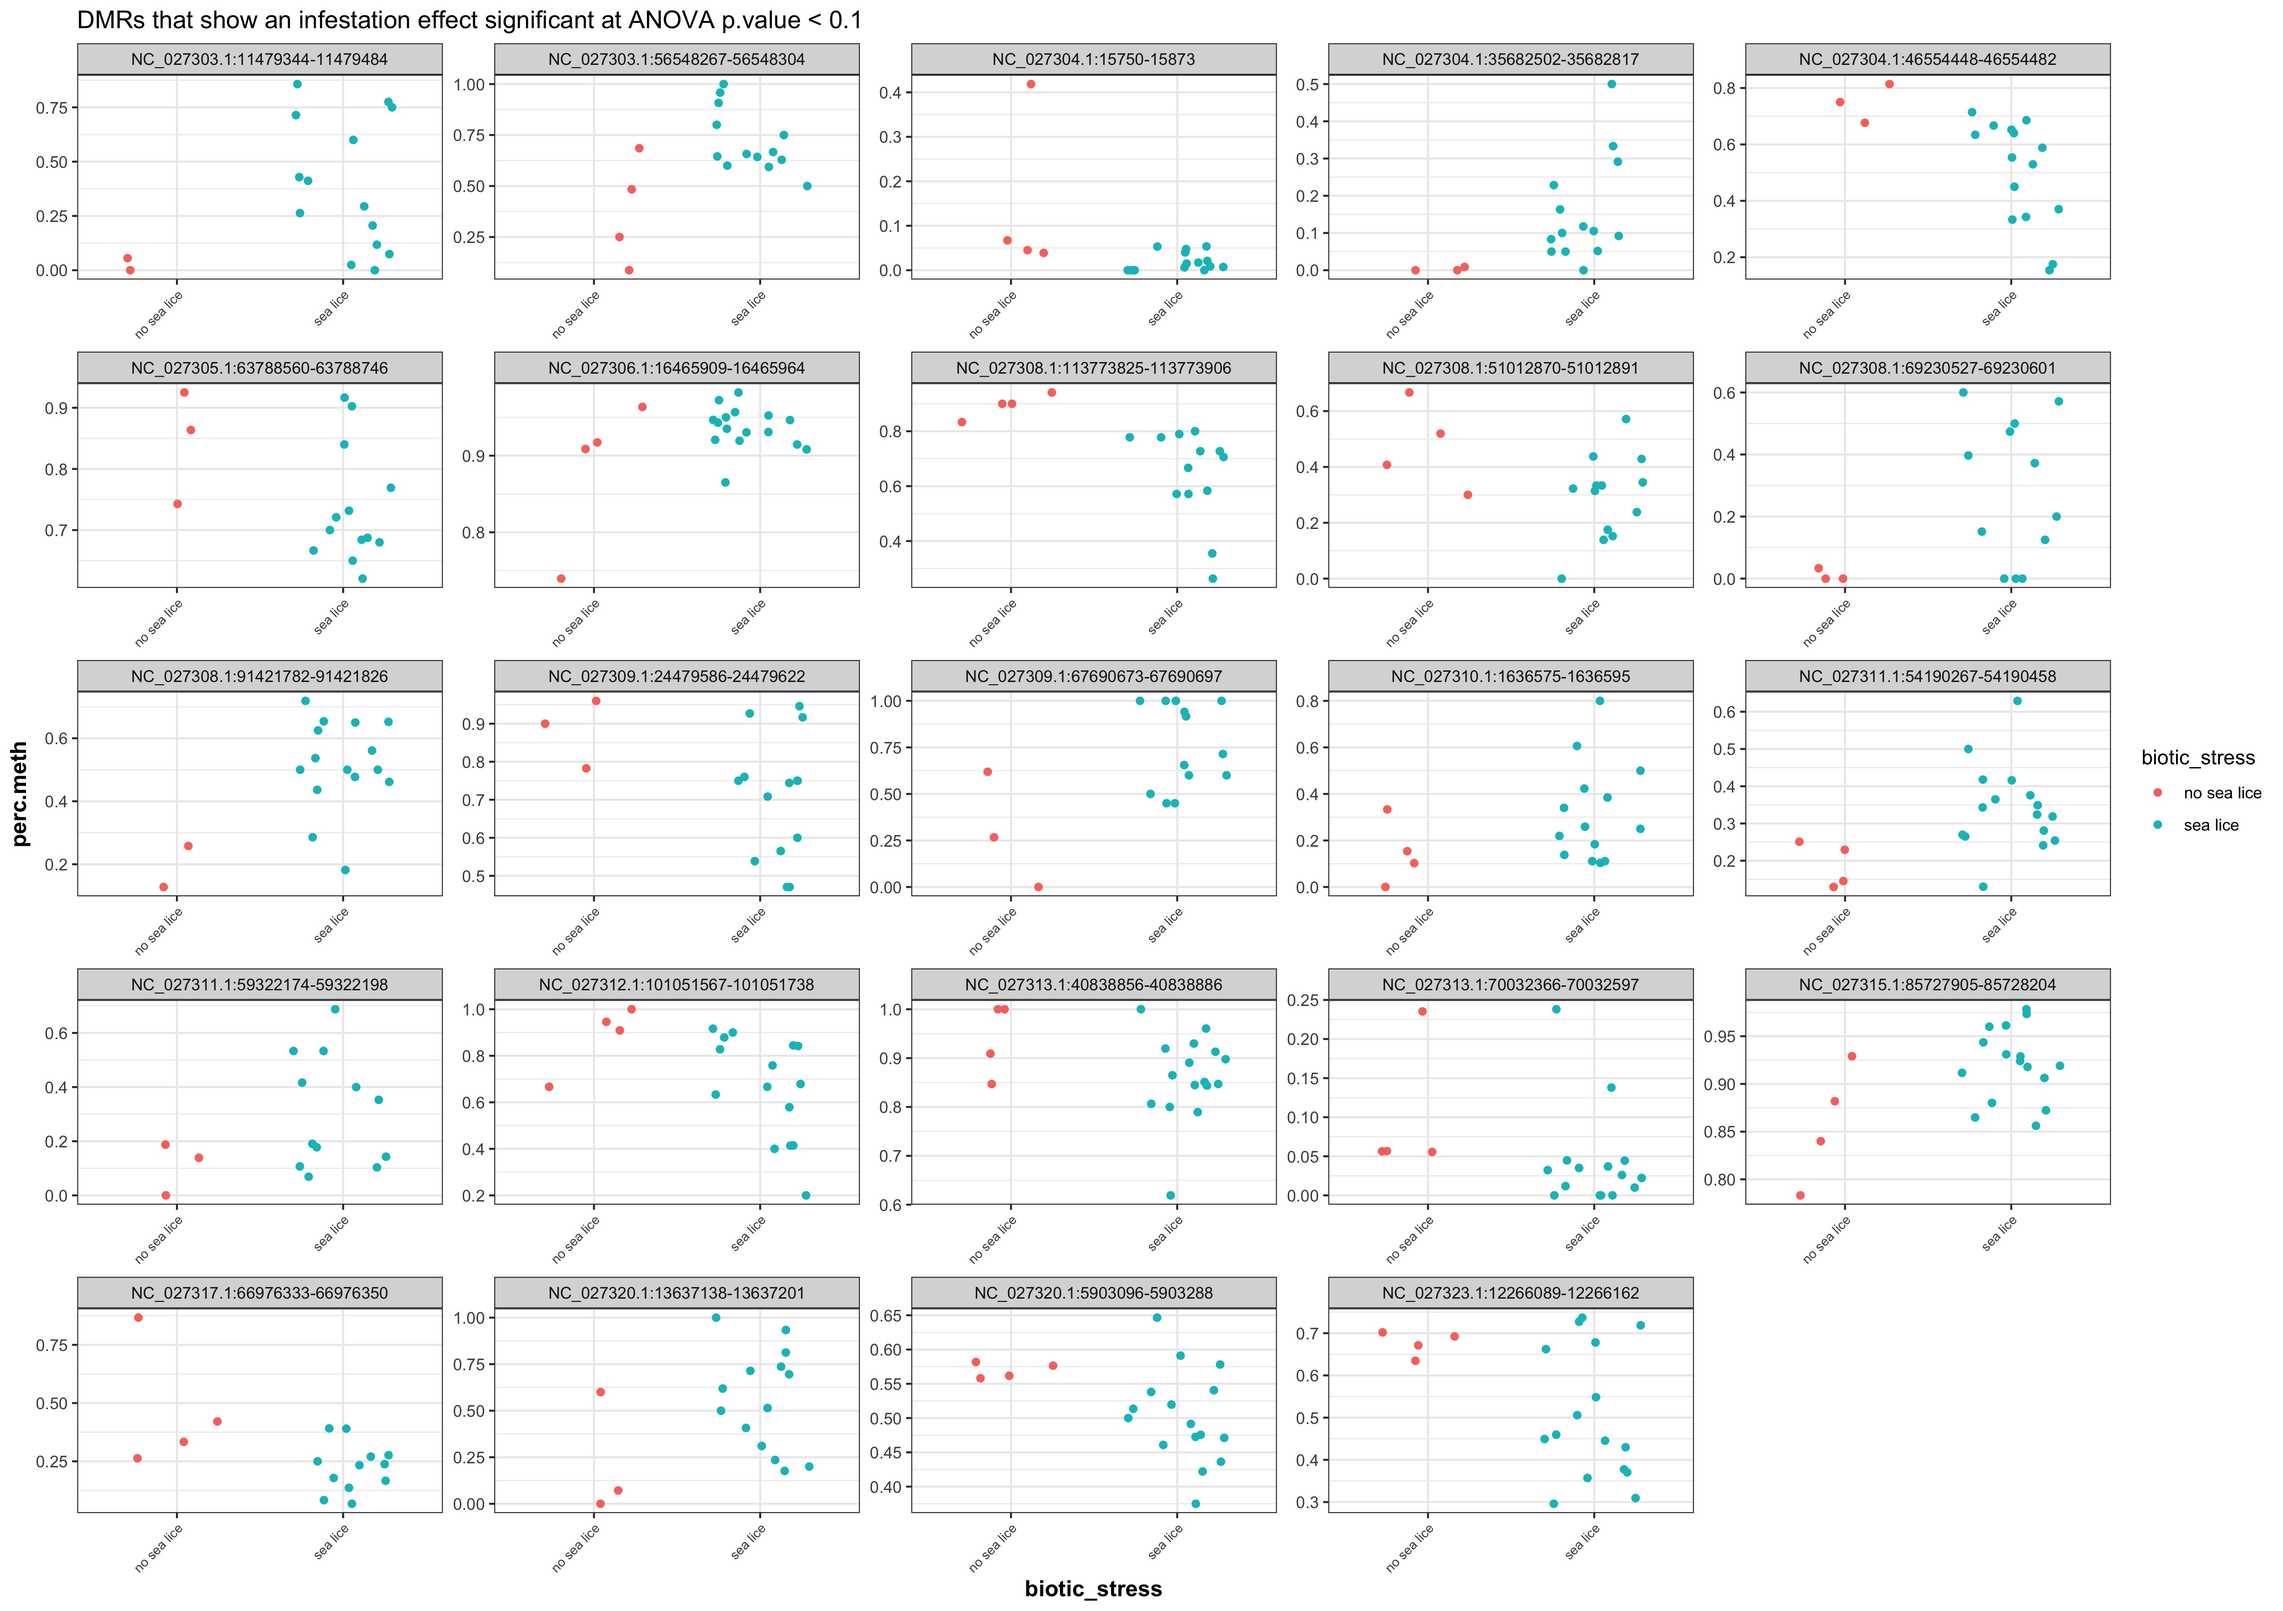
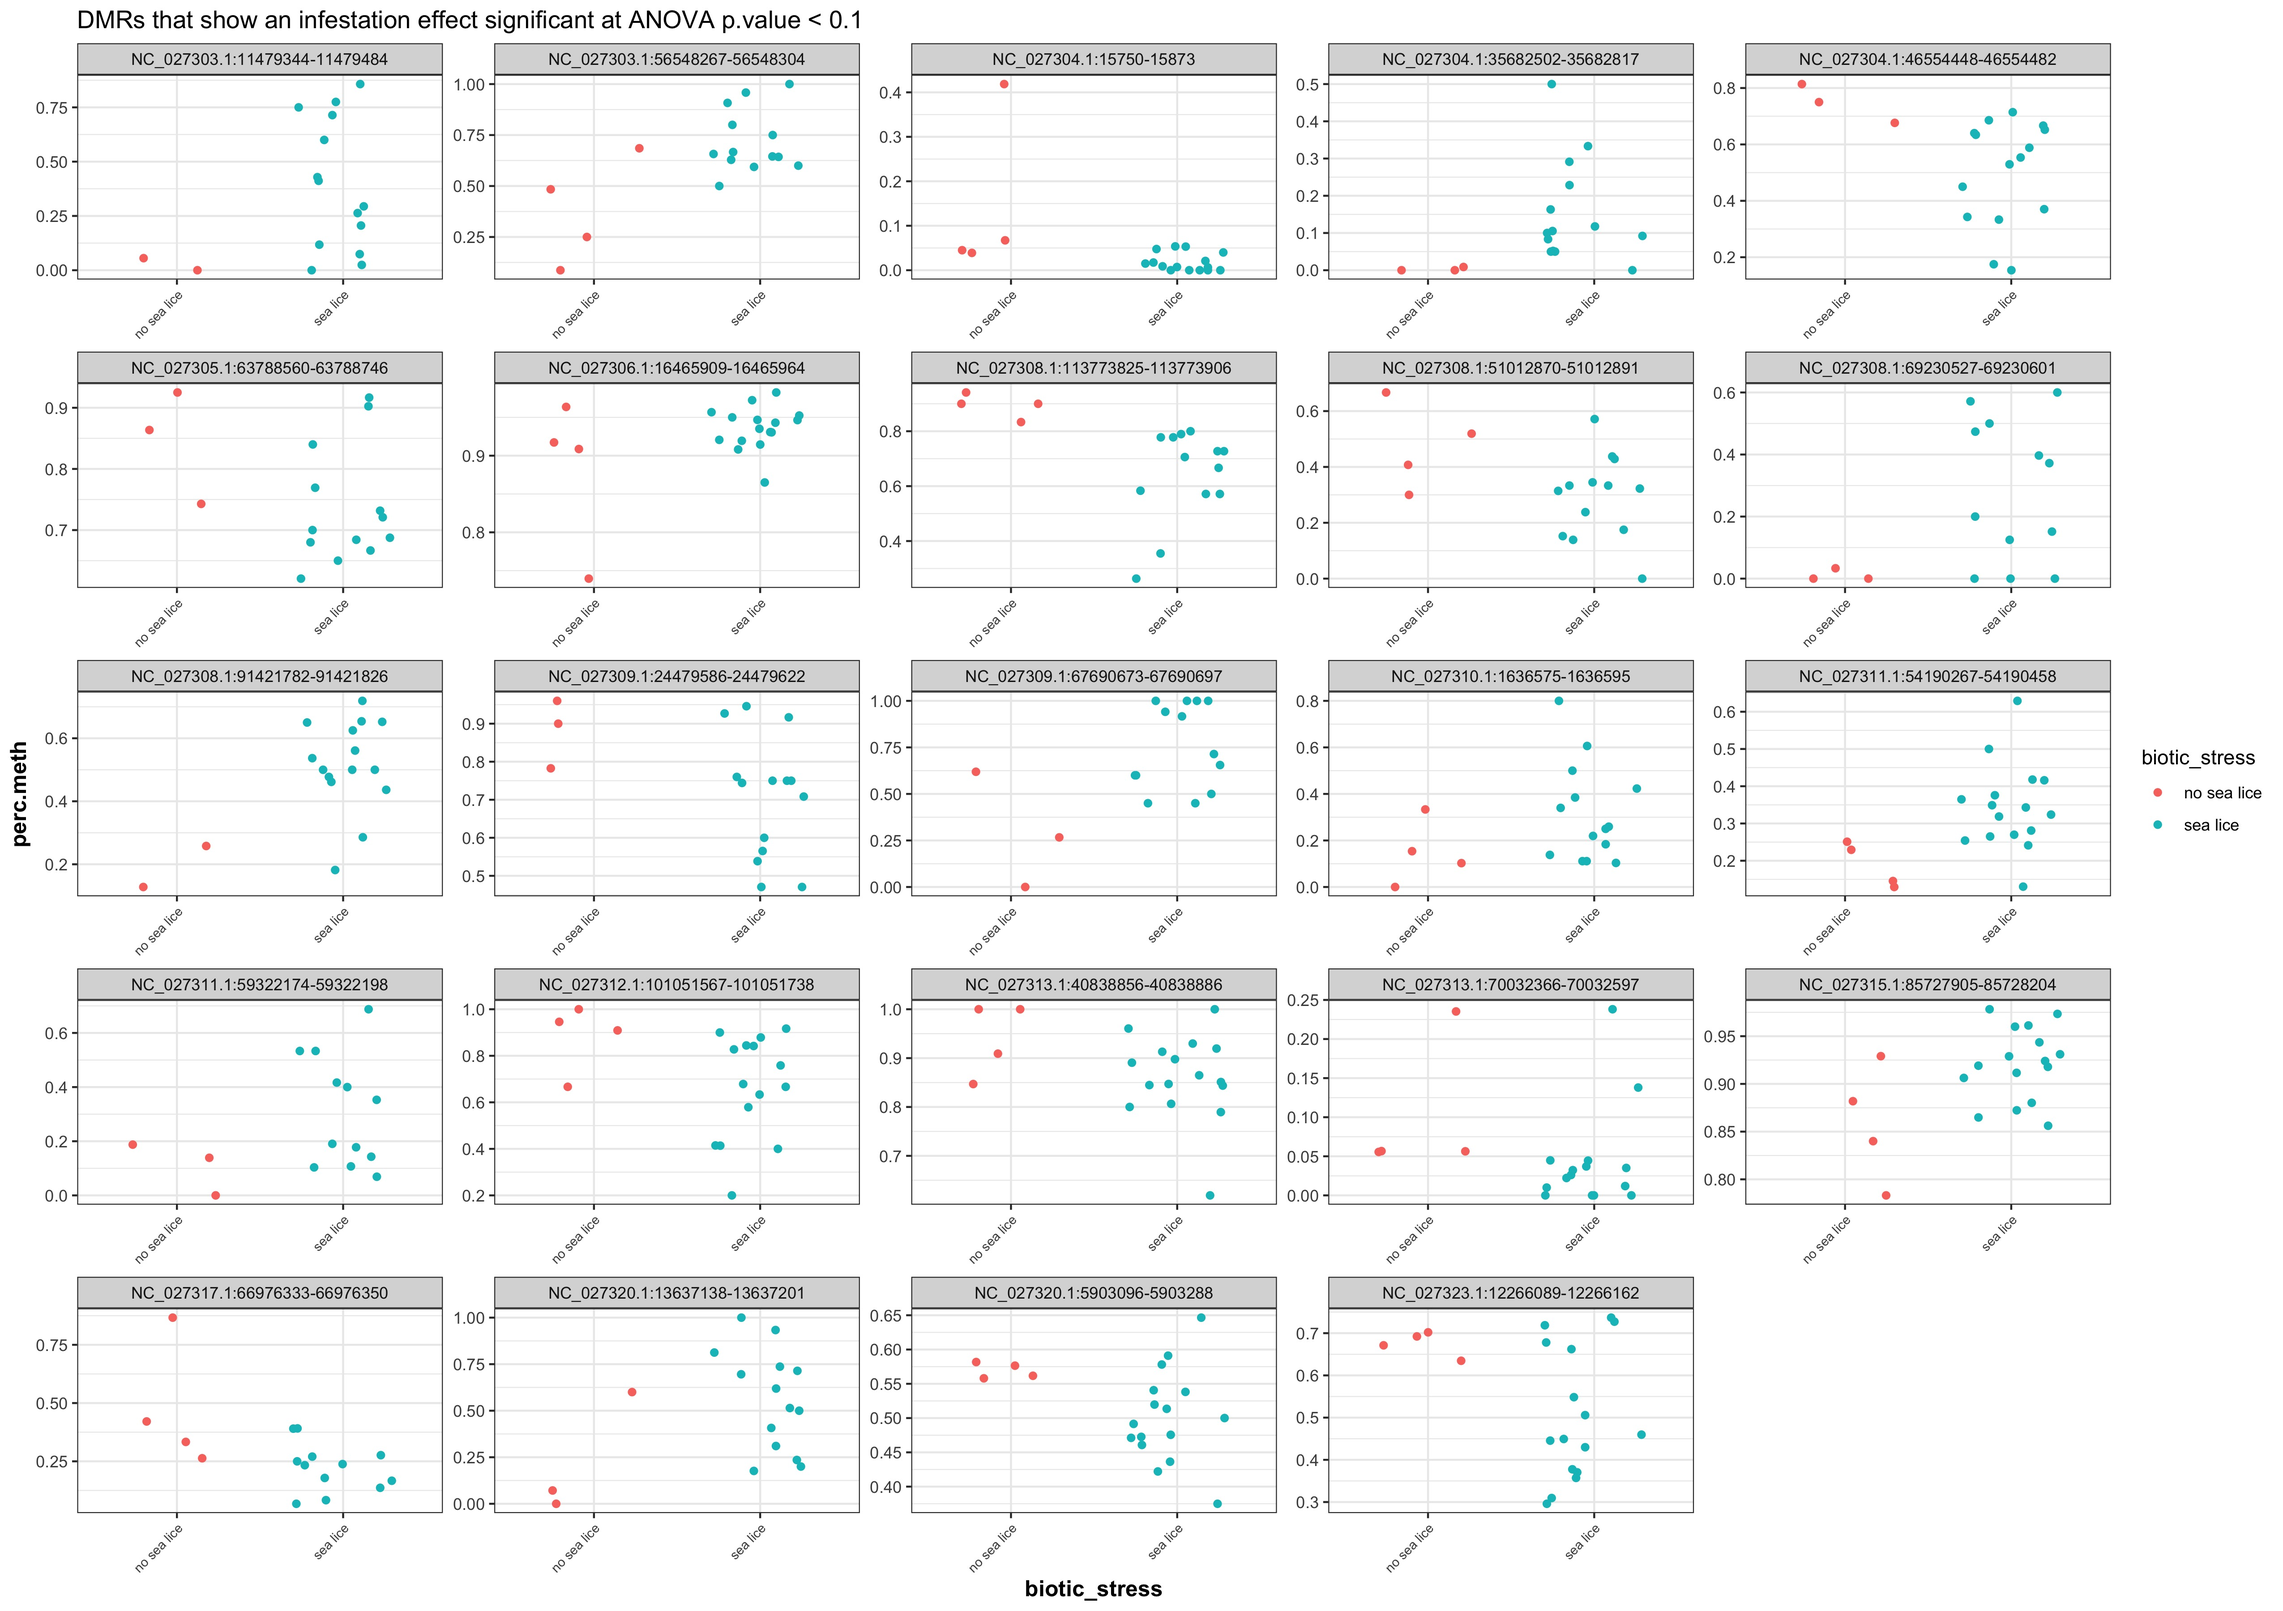
fixed plots

diff --git a/analyses/MCmax25_asinT_groupStats/MCmax25_asinT_groupStats.html b/analyses/MCmax25_asinT_groupStats/MCmax25_asinT_groupStats.html
@@ -208,7 +208,7 @@ p +<span class="st"> </span><span class="kw">geom_jitter</span>(<span class="dt"
 <pre><code>## quartz_off_screen 
 ##                 2</code></pre>
 <p>plot DMRs with Temp x Salinity interaction effect significant at 0.1 TukHSD</p>
-<pre class="sourceCode r"><code class="sourceCode r"><span class="kw">jpeg</span>(<span class="st">&quot;DMR_MCmax25DMR_Taov0.1TxSPercMeth.jpg&quot;</span>, <span class="dt">width =</span> <span class="dv">10</span>, <span class="dt">height =</span> <span class="dv">4</span>, <span class="dt">units =</span> <span class="st">&quot;in&quot;</span>, <span class="dt">res =</span> <span class="dv">300</span>)
+<pre class="sourceCode r"><code class="sourceCode r"><span class="kw">jpeg</span>(<span class="st">&quot;DMR_MCmax25DMR_Taov0.1TxSPercMeth.jpg&quot;</span>, <span class="dt">width =</span> <span class="dv">10</span>, <span class="dt">height =</span> <span class="dv">8</span>, <span class="dt">units =</span> <span class="st">&quot;in&quot;</span>, <span class="dt">res =</span> <span class="dv">300</span>)
 p &lt;-<span class="st"> </span><span class="kw">ggplot</span>(<span class="dt">data =</span> DMRs_STACKED[<span class="kw">which</span>(DMRs_STACKED$ID %in%<span class="st"> </span><span class="kw">pull</span>(DMR_tuk_TxS_summ[<span class="kw">which</span>(DMR_tuk_TxS_summ$adj.p.value &lt;<span class="st"> </span><span class="fl">0.1</span> &amp;<span class="st"> </span>DMR_tuk_TxS_summ$term ==<span class="st"> &quot;temp:salinity&quot;</span>),],ID) &amp;<span class="st"> </span><span class="kw">substr</span>(DMRs_STACKED$group_name,<span class="dv">1</span>,<span class="dv">4</span>)!=<span class="st">&quot;CTRL&quot;</span>),],<span class="kw">aes</span>(<span class="dt">x =</span> group_name,<span class="dt">y =</span> perc.meth, <span class="dt">color =</span> group_name)) +<span class="st"> </span><span class="kw">facet_wrap</span>(~ID, <span class="dt">scale =</span> <span class="st">&quot;free&quot;</span>) +<span class="st"> </span><span class="kw">theme_bw</span>() +<span class="st"> </span><span class="kw">theme</span>(<span class="dt">axis.text.x =</span> <span class="kw">element_text</span>(<span class="dt">size =</span> <span class="dv">7</span>,<span class="dt">angle =</span> <span class="dv">45</span>, <span class="dt">hjust =</span><span class="dv">1</span>),<span class="dt">axis.title=</span><span class="kw">element_text</span>(<span class="dt">size=</span><span class="dv">12</span>,<span class="dt">face=</span><span class="st">&quot;bold&quot;</span>))
 p +<span class="st"> </span><span class="kw">geom_jitter</span>(<span class="dt">width =</span> <span class="fl">0.3</span>) +<span class="st"> </span><span class="kw">ggtitle</span>(<span class="st">&quot;DMRs that show a temp x salinity effect significant at TukeyHSD p.value &lt; 0.1&quot;</span>)</code></pre>
 <pre><code>## Warning: Removed 10 rows containing missing values (geom_point).</code></pre>

diff --git a/analyses/MCmax25_asinT_groupStats/MCmax25_asinT_groupStats.md b/analyses/MCmax25_asinT_groupStats/MCmax25_asinT_groupStats.md
@@ -306,7 +306,7 @@ dev.off()
 plot DMRs with Temp x Salinity interaction effect significant at 0.1 TukHSD
 
 ``` r
-jpeg("DMR_MCmax25DMR_Taov0.1TxSPercMeth.jpg", width = 10, height = 4, units = "in", res = 300)
+jpeg("DMR_MCmax25DMR_Taov0.1TxSPercMeth.jpg", width = 10, height = 8, units = "in", res = 300)
 p <- ggplot(data = DMRs_STACKED[which(DMRs_STACKED$ID %in% pull(DMR_tuk_TxS_summ[which(DMR_tuk_TxS_summ$adj.p.value < 0.1 & DMR_tuk_TxS_summ$term == "temp:salinity"),],ID) & substr(DMRs_STACKED$group_name,1,4)!="CTRL"),],aes(x = group_name,y = perc.meth, color = group_name)) + facet_wrap(~ID, scale = "free") + theme_bw() + theme(axis.text.x = element_text(size = 7,angle = 45, hjust =1),axis.title=element_text(size=12,face="bold"))
 p + geom_jitter(width = 0.3) + ggtitle("DMRs that show a temp x salinity effect significant at TukeyHSD p.value < 0.1")
 ```
